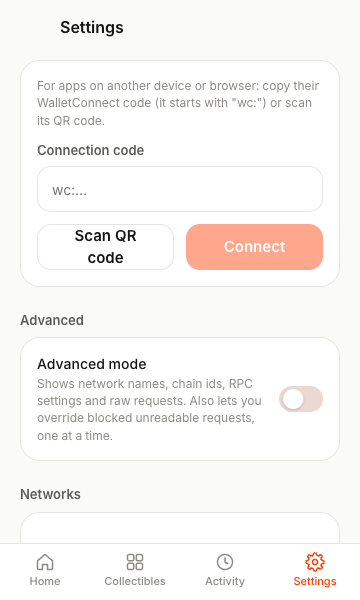
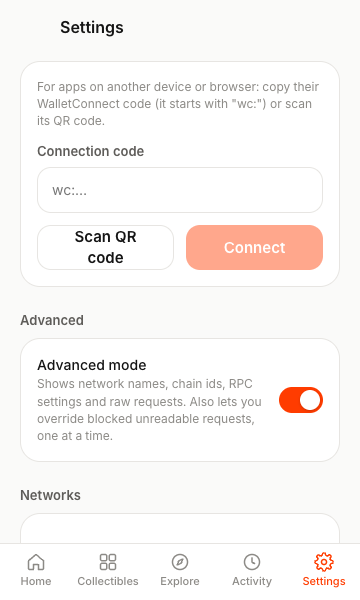
docs, screenshots: integration notes and refreshed e2e screenshots
docs/phase2/integration/integrate.md: what was applied, decisions where the stream docs overlapped,
extension-vs-engine decision, bundle sizes, tests and remaining gaps. Screenshots regenerated by the
e2e run (existing names overwritten; new: stake, swap, explore, backup, accounts,
receive-all-families, receive-sui).

diff --git a/docs/phase2/integration/integrate.md b/docs/phase2/integration/integrate.md
@@ -1,0 +1,136 @@
+# Integration: stream "integrate" (all Phase 2 streams wired together)
+
+Branch `p2/integrate`. Applied, in order: vault2 → move → near-stellar-tezos-algorand (after-move patch) →
+cardano-substrate → starknet-ton → features → platform (incl. §5b) → hardware → mobile. The `fix/taproot`
+merge needed no wiring: the extension's Receive only offers the BIP-84 address.
+
+## Where things live now
+
+| What | Where |
+|---|---|
+| Network/asset catalogue (14 families) | `packages/engine/src/catalog.ts`; `apps/extension/src/shared/catalog.ts` re-exports it |
+| Passkey backup, phrase flag, accounts, names | `packages/engine/src/platform.ts` (`@clip-wallet/engine/platform`); the extension re-exports it |
+| Feature host / CoinGecko feed | `packages/engine/src/features.ts` (`@clip-wallet/engine/features`); the extension re-exports it |
+| Feature request schemas only | `@clip-wallet/features/messages` (pages and the engine root don't pull in every provider) |
+| Extension orchestration | `apps/extension/src/background/service.ts` (still its own; see "Extension vs engine") |
+| Mobile orchestration | `packages/engine/src/engine.ts` (`WalletEngine`) with the same changes ported |
+| Hosted services | `clip.config` `services.backupUrl` / `services.mediaProxyUrl` (new, optional, https). Unset = passkey backup hidden with a plain note; NFT media show placeholders |
+
+## Decisions where the docs overlapped or conflicted
+
+- **OneMaskConnector constructor.** NSTA wanted `(networks, { kv, name, iconUrl })` and starknet-ton
+  `(networks, { starknet, ton })`. It is now one options object: `{ beacon, starknet, ton }`. Starknet and TON
+  arrive as loaders because those modules load on first use (see "Bundle").
+- **Connect methods / ETAs.** Union of every stream's list. Plain ETAs added for Cardano (40 s), Substrate (12 s),
+  Starknet (10 s) and TON (6 s). These are estimates, not measured.
+- **`ctx()`.** It merges vault2 (Bitcoin change addresses), platform (the dapp's origin picks the account) and
+  hardware (no vault change addresses for a hardware account).
+- **Which account signs.** Priority: (1) a site's own choice in Settings → Accounts, (2) a hardware account
+  picked for that family, (3) the wallet default (Settings → Accounts, account 0 until chosen).
+- **Address recognition.** `FAMILIES` comes from core. Only families with a module are asked (fixture builds
+  have mocks for all 14 now).
+- **`window.clipwallet`.** TON Connect froze its holder object, so whichever of TON or the
+  NEAR/Stellar/Algorand providers installed second was lost (or threw). They now share 1Mask's own root, and
+  another wallet's global is never extended. Covered by `packages/1mask/test/inpage-shared-global.test.ts`.
+- **Passkey restore.** The platform doc asked the vault for `restorePasskeyBackup`. It is now in
+  `packages/vault` (with tests), and the background fallback that decrypted the phrase outside the vault is
+  gone.
+- **§5b.** The Jupiter and Solana-staking program allowlists are removed. chains-solana decodes those
+  transactions now; anything else stays blind.
+- **Menus.** The features doc's Settings "More" section and the platform doc's security buttons became two
+  menu lists:
+  - More: Stake, Swap, Buy, Secure Trade, Explore apps.
+  - Security: Backup, Accounts, Hardware wallets.
+
+  Backup is a new hub screen (`/backup`) linking the phrase and passkey backups. Explore is also a bottom tab
+  when a features client is present (the features doc said "TabBar unchanged"; the brief asked for tabs). Home
+  and the asset screen get a Swap / Buy / Stake row. Stake only shows where a provider is live (HBAR, SOL).
+- **Hedera on Ledger.** Kept off the device list. Ed25519 Hedera accounts need prepare/finalize/account-id
+  changes in chains-hedera.
+- **Taproot.** Untouched. Hardware raw payloads only add `raw` next to the existing payloads.
+- **Asset keys.** chains-starknet keyed Sepolia ETH `eth`, but EVM testnets use `eth-testnet`; it is now
+  `eth-testnet`, so testnet ETH is one row. TON's native coin stays `gram`/GRAM (the stream's documented
+  rename). CoinGecko ids were added for `gram`, `eth-testnet` and the Westend/Paseo coins.
+
+## Fixes found while integrating (not in any doc)
+
+- **Service worker died on load.** A bundled TextEncoder polyfill read `window`/`global`, and readable-stream
+  (from the hardware deps) read `process`. Fix: `global: "globalThis"` define plus a minimal `process` shim in
+  `shared/node-globals.ts`.
+- **Background bundled the Aptos SDK.** Background `methods.ts`/`router.ts` imported method-name constants
+  from the in-page Sui/Aptos modules, which pulled in `@aptos-labs/ts-sdk`. The constants now live in
+  `shared/move-methods.ts`, checked against the libraries in a test.
+- **Mobile injected bundle threw on load.** esbuild dropped ts-sdk's entry, which runs its lazy
+  initialisers. A small resolve plugin fixes it (bundle 466 → 609 KiB).
+- **Metro.** `@ton/crypto-primitives`' React Native build requires `react-native-fast-pbkdf2` on a code path
+  the wallet never runs, so it is stubbed. `expo export --platform ios` succeeds (23 MB Hermes bytecode).
+
+## Extension vs engine
+
+The extension stays on `service.ts`. Moving it onto `WalletEngine` was not simple:
+- The engine lacked everything this integration added.
+- The engine changes behaviour on lock (it rejects waiting approvals; the extension queues and unlocks).
+- Fixture-mode simulation and the hardware signer routing exist only in the extension.
+
+Everything was ported to the engine instead, so mobile gets all 14 families, features and platform. The pieces
+that were plain copies (catalogue, PlatformService, feature host) are now shared from the engine. The
+remaining duplication is the orchestration class itself (`service.ts` vs `engine.ts`). Keep them in step until
+the move recipe in `mobile.md` is done.
+
+## Bundle (extension, `wxt build`)
+
+| | background.js | page chunk | inpage.js |
+|---|---|---|---|
+| main before integration | 3.96 MB | 0.41 MB | 111 KB |
+| + 14 families | 6.94 MB | | 250 KB |
+| + features, platform | 7.25 MB | 3.39 MB | |
+| + hardware | 9.91 MB | | |
+| final | 10.00 MB | 0.84 MB | 250 KB |
+
+MV3 service workers can't fetch code chunks: `import()` is forbidden in service workers, and WXT inlines it.
+WXT does emit `import()` as a lazy initialiser inside the one file, though, so code behind it is parsed but not
+evaluated until first use. That is used for:
+- The Ledger/Keystone signers (`@clip-wallet/hardware/core` is the light half).
+- The ten Phase 2 chain modules (`lazyChain` in `wiring.ts`; each package has a data-only `./networks` entry so
+  the catalogue doesn't pull module code in).
+
+A cold service worker evaluates in about 700 ms (headless Chromium on the dev machine; ~740 ms before the lazy
+loading). A Node profile shows compiling the 10 MB file is about half of that, so further gains need fewer bytes:
+- Move hardware signing into the approval window, which needs a page for WebHID and the camera anyway: about
+  1.5 MB.
+- Replace the Hedera SDK protobufs in chains-hedera: about 2 MB.
+- Drop `@walletconnect/pay` and dedupe zod and noble.
+
+The page chunk shrank because pages now import only `@clip-wallet/features/messages`.
+
+## Tests
+
+- **Extension e2e: 7 tests.** The 5 existing ones, plus:
+  - Real wiring: one account per family with address shapes checked, and Receive lists every family's coin.
+  - Fixtures: Stake, Swap, Explore, Backup and Accounts screenshots.
+- **Fixture mode.** A mock module for every family, sample balances for SUI/ADA/PAS/GRAM/NEAR/XTZ and
+  Sui/TON/Cardano collectibles. Features use sample staking, quotes and liquidity
+  (`background/mocks/mock-features.ts`).
+- **New unit tests.**
+  - Extension: Ledger replay through `approve()`, lazy chain modules.
+  - Engine: all-families wiring, PRF input pinned.
+  - Vault: `restorePasskeyBackup`, PRF input pinned.
+  - 1Mask: shared global, Sui/Aptos method names.
+  - UI: feature, backup and accounts entry points.
+  - Chains: raw payloads.
+  - Mobile: the Explore screen.
+
+## Gaps
+
+- **Staking/swap coverage.** Cardano, Substrate, NEAR and Tezos staking providers aren't written (features §10),
+  so they show "coming soon". There are no swap providers for the new families. Partner keys are build env only,
+  so without them swap and buy show "not switched on".
+- **Mobile screens.** Only Explore (featured apps in the in-app browser, read-only staking) was added. Stake,
+  Swap, Buy, Secure Trade, Backup, Accounts and hardware have no React Native screens yet. The WebView doesn't
+  configure TON Connect or the Beacon relay. The app was bundled with Metro but not run on a simulator.
+- **Hardware.** Not supported:
+  - Hedera on Ledger and taproot on devices.
+  - Bitcoin messages on Keystone and Solana messages on Ledger.
+  - Hardware-only wallets (a vault without a phrase).
+- **Services.** services/backup and services/media-proxy are not deployed. Beacon P2P (QR pairing) is not
+  wired. NEAR named accounts are not offered to dapps.
